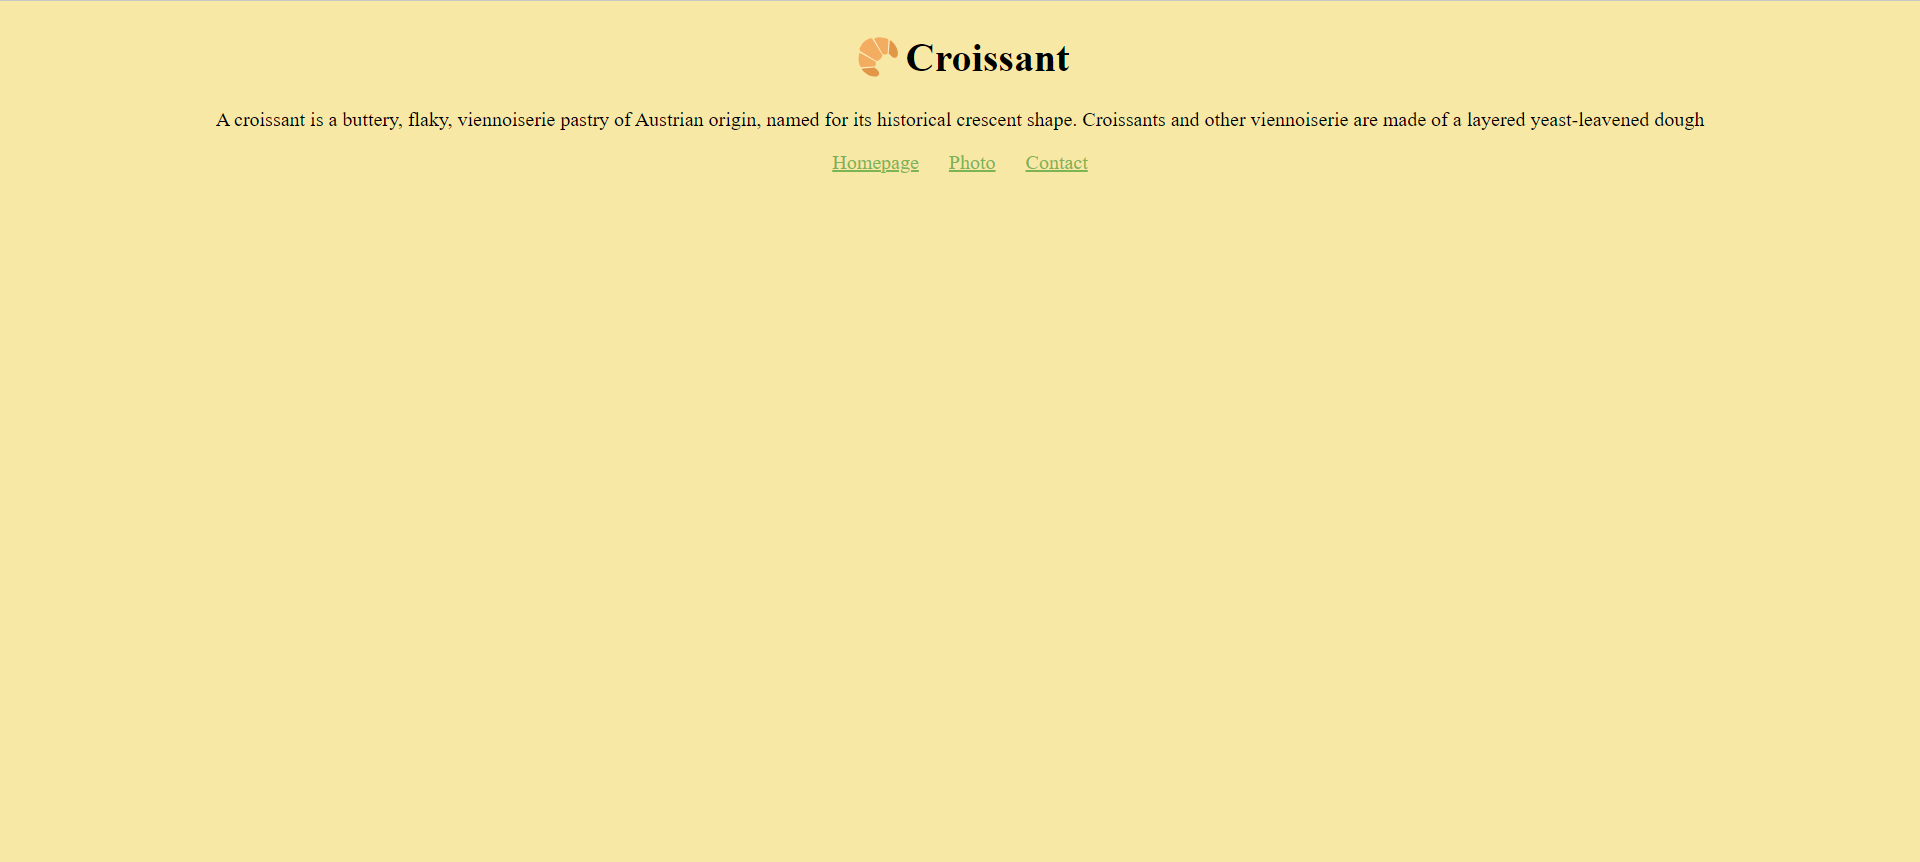
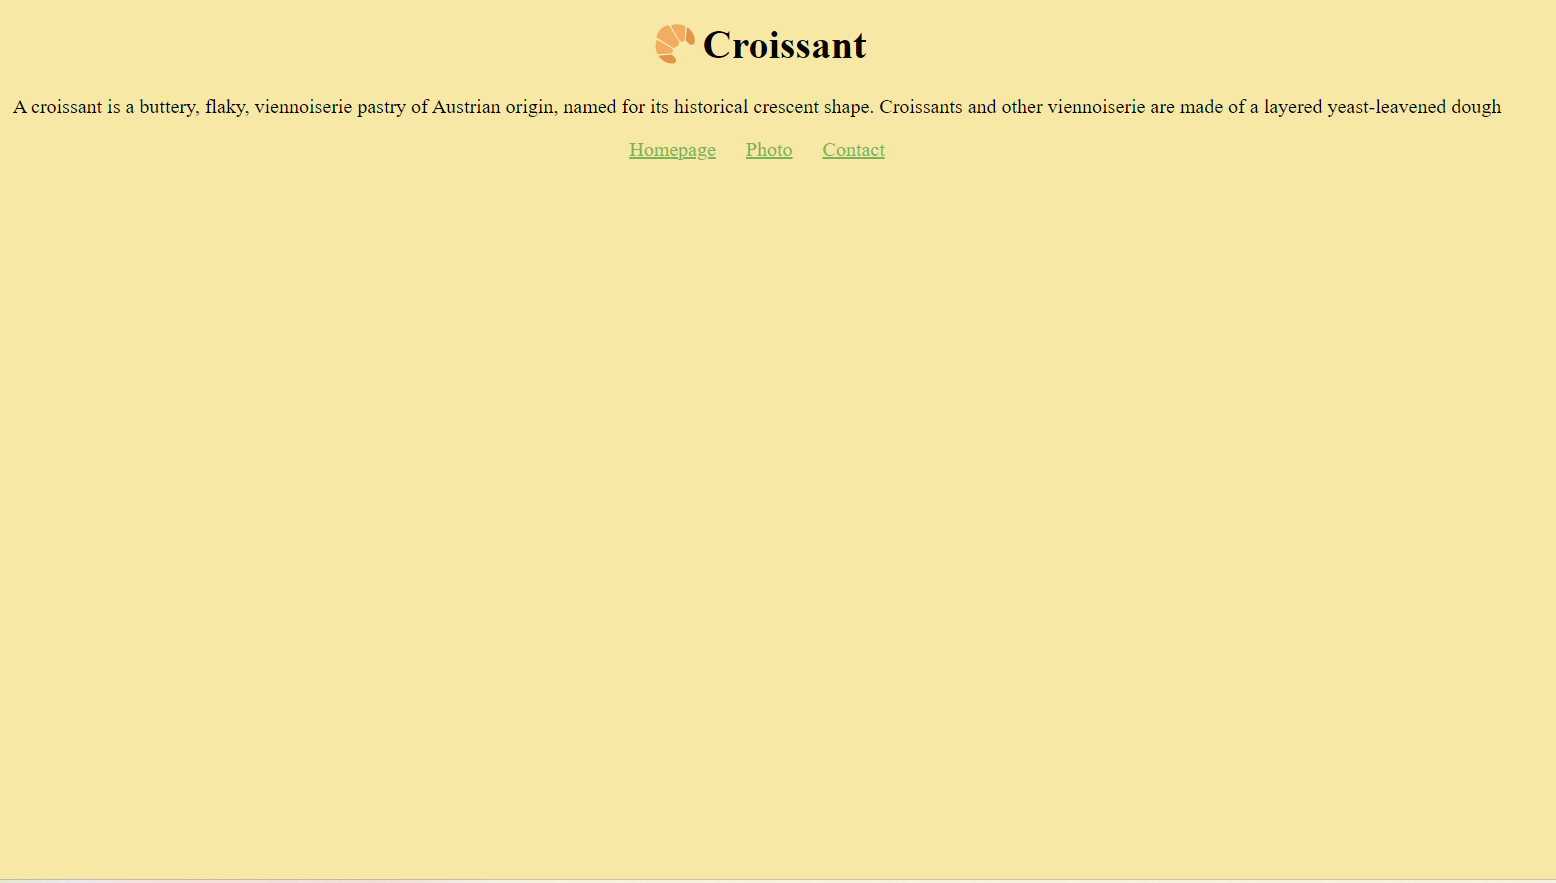
Added work page to the project

Changed region(s): [[0.0, 0.0302, 0.9563, 0.2111], [0.0, 0.9954, 1.0, 1.0]]

diff --git a/work.html b/work.html
@@ -23,14 +23,31 @@
 </head>
 <body>
     <div class="content-container container">
-    <div class="row">
-        <div class="col-lg-6">
-            <div class="content">
-    <h1>Hi, I am Valeriia Tymoshenko</h1>
-    <h2 class="mt-5">Front-end developer based in Spain</h2>
-    <p class="mt-5">For anyone who wants to start learning code, this workshop is very interesting. You will be challenged  with different exercises, and everything is well explained, homework and deadlines are good for keep focus</p>
-    <a href="" class="btn btn-branding mt-5" >See my projects</a></div></div>
-    <div class="col-lg-6">
-    <img src="images/my-photo.jpg" alt="my-photo" class="img-fluid"></div></div></div>
+    
+     <div class="content">
+      <h1 class="mb-5">Take a look at what I've been working on!</h1>
+      <div class="row">
+        <div class="col-md-6 mb-5">
+            <img src="images/books.png" class="img-fluid" width="150px">
+            <h3>Books Project</h3>
+            <p class="text-center text-muted">Built with HTML and CSS</p>
+        </div>
+        <div class="col-md-6 mb-5">
+            <img src="images/weather.png" class="img-fluid"  width="150px">
+            <h3>Weather Project</h3>
+            <p class="text-center text-muted">Built with HTML and CSS and Java Script</p>
+        </div>
+        <div class="col-md-6 mb-5">
+            <img src="images/croissant.png" class="img-fluid"  width="150px">
+            <h3>Croissant Project</h3>
+            <p class="text-center text-muted">Built with HTML and CSS </p>
+        </div>
+        <div class="col-md-6 mb-5">
+            <img src="images/translation.png" class="img-fluid"  width="150px">
+            <h3>Transaltion Project</h3>
+            <p class="text-center text-muted">Built with HTML and CSS and React</p>
+        </div>
+      </div>
+    </div></div>
 </body>
 </html>

diff --git a/styles/portfolio.css b/styles/portfolio.css
@@ -42,25 +42,34 @@ p{
     font-size: 24px;
     line-height: 1.5;
 }
-.about-section{
+.content-container{
     padding: 160px 20px;
 }
-.about-section h1{
+.content h1{
     font-size: 64px;
     line-height: 80px;
 
 }
-.about-section h2{
+.content h2{
     font-size: 18px;
     font-family: var(--default-font-family);
     
 }
-.about-section img{
+.content h3{
+    font-size: 24px;
+    line-height: 1;
+    margin: 20px 0 0;
+    font-family: var(--default-font-family);
+}
+.content-container img{
     width: 400px;
     border-radius: 1px;
 }
+.content p{
+    font-size: 14px;
 
-.about-section-content{
+}
+.content{
 margin: 30px ;
 }
 .btn-branding{
